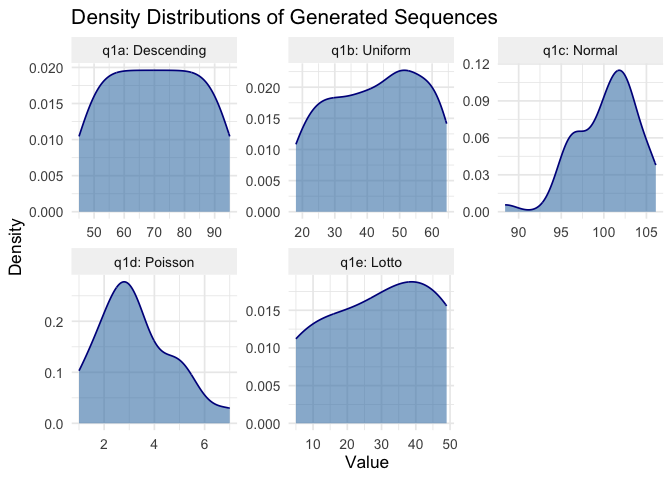
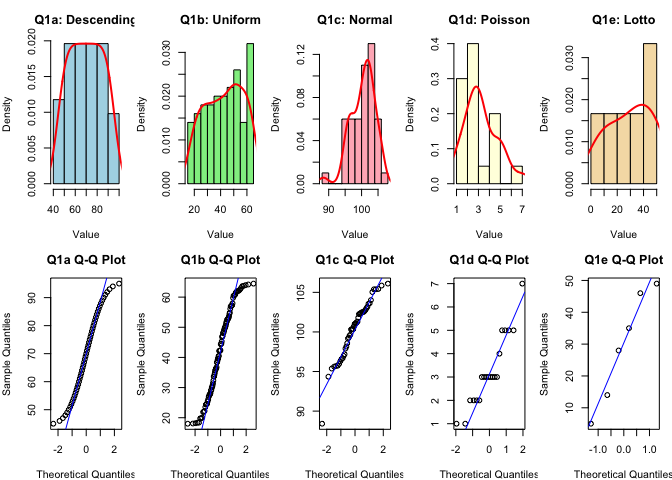
some changes on table_out

diff --git a/scripts/Rexam2026_Reuben_Njue.md b/scripts/Rexam2026_Reuben_Njue.md
@@ -63,28 +63,28 @@ q1b <- runif(n = 100, min = 18, max = 65)
 sample(18:65, 100, replace = TRUE)
 ```
 
-      [1] 23 40 20 44 34 39 53 44 43 33 64 35 27 50 29 25 54 48 50 37 27 42 21 36 29
-     [26] 39 29 30 54 27 46 21 46 49 39 44 64 45 64 38 42 18 65 62 57 54 39 19 54 27
-     [51] 24 50 43 27 19 50 56 44 33 32 57 30 23 19 53 42 34 44 57 35 48 50 65 52 58
-     [76] 34 37 29 58 65 35 52 58 63 62 50 53 62 57 18 29 50 57 39 61 21 37 61 33 22
+      [1] 63 24 49 24 55 62 45 30 63 19 24 62 26 47 52 59 27 62 28 21 50 44 34 31 20
+     [26] 65 28 54 21 23 40 18 64 22 36 59 48 46 25 54 65 61 21 55 31 28 20 47 52 29
+     [51] 57 34 52 45 63 25 26 19 56 64 47 54 32 55 30 48 65 28 45 65 46 56 55 23 19
+     [76] 52 47 29 35 51 22 28 47 24 43 24 26 44 42 26 42 43 26 44 53 38 52 65 20 46
 
 ``` r
 print(q1b)
 ```
 
-      [1] 40.77914 49.34788 36.73686 43.40712 37.05379 63.26516 35.68160 32.60948
-      [9] 45.89917 57.99030 60.41527 55.16942 54.92449 42.08514 35.15772 26.64934
-     [17] 52.03318 44.75294 54.18172 18.66806 64.33166 48.85854 35.19894 48.85688
-     [25] 36.34632 61.17966 51.94178 38.37959 42.00412 41.41670 27.40487 24.74786
-     [33] 35.65206 23.27502 60.03087 26.24046 49.46547 35.24620 39.48774 19.86285
-     [41] 57.31759 62.81311 26.19281 46.21001 50.72594 33.97881 21.22348 27.37011
-     [49] 26.10305 53.91885 34.86918 60.19458 57.95977 55.65253 51.02999 45.89360
-     [57] 26.44884 26.98388 57.02371 33.68923 30.09786 41.02267 41.96779 22.23110
-     [65] 41.18605 45.92222 41.75432 55.82522 19.90429 57.87417 28.19128 54.54162
-     [73] 61.00305 21.87404 48.76781 46.25148 18.70328 50.61264 30.63222 36.20375
-     [81] 56.53804 22.72464 27.32023 18.17421 47.31539 50.46969 59.46548 39.83201
-     [89] 38.85367 30.91061 58.67488 37.80413 55.22921 28.05004 62.24474 33.90209
-     [97] 22.78888 61.24496 22.93240 54.22047
+      [1] 23.30671 23.89200 64.80920 37.62003 48.73296 32.90680 29.96232 29.52058
+      [9] 33.36809 54.63887 44.64680 53.10153 29.22694 57.16112 22.55820 35.00772
+     [17] 23.70005 33.33406 57.65727 52.41456 58.34599 21.01534 23.47461 60.63228
+     [25] 31.95097 35.36266 61.36227 37.99301 60.32154 23.60234 54.78528 42.60077
+     [33] 56.97280 59.54645 40.77512 52.63283 23.71298 46.09769 35.23650 41.05641
+     [41] 52.25317 21.44048 20.98263 40.94888 38.91472 22.92825 28.57126 46.92057
+     [49] 38.14401 43.01851 30.87221 18.66674 18.42030 28.29608 46.23993 38.03652
+     [57] 50.83783 45.23831 58.64704 46.81940 41.22737 22.81075 25.99895 28.16290
+     [65] 58.77913 62.64152 23.94127 55.83600 31.16410 62.19746 31.55739 22.89561
+     [73] 44.79466 21.90212 62.37639 25.10836 42.62685 53.72271 44.92001 36.85702
+     [81] 21.14317 44.44325 40.70585 52.24085 32.08488 41.91787 40.40234 52.40319
+     [89] 39.59002 22.79367 42.54807 28.24809 60.86199 57.71701 46.16899 20.31364
+     [97] 40.72697 60.84466 56.52158 49.11503
 
 ## Q1c: 50 random numbers from a Normal distribution with mean=100 and SD=15
 
@@ -169,7 +169,7 @@ qqnorm(q1d, main="Q1d Q-Q Plot"); qqline(q1d, col="blue")
 qqnorm(q1e, main="Q1e Q-Q Plot"); qqline(q1e, col="blue")
 ```
 
-![](Rexam2026_Reuben_Njue_files/figure-commonmark/unnamed-chunk-8-1.png)
+![](Rexam2026_Reuben_Njue_files/figure-commonmark/unnamed-chunk-8-2.png)
 
 ``` r
 par(mfrow = c(1, 1))
@@ -203,7 +203,7 @@ gg_plot <- ggplot(df_long, aes(x = Value)) +
 print(gg_plot)
 ```
 
-![](Rexam2026_Reuben_Njue_files/figure-commonmark/unnamed-chunk-8-2.png)
+![](Rexam2026_Reuben_Njue_files/figure-commonmark/unnamed-chunk-8-3.png)
 
 ``` r
 table_output <- df_long |>
@@ -219,34 +219,25 @@ table_output <- df_long |>
       "Fail to reject H0: Normally Distributed"
     )
   ) |>
-  flextable() |>
-  set_header_labels(
+  flextable() |>                     # 1. Initialize flextable
+  theme_vanilla() |>                  # 2. Apply theme FIRST so it doesn't wipe changes
+  set_header_labels(                 # 3. Change header labels
     Sequence = "Sequence Group",
     Sample_Size = "Sample Size (n)",
     p_value = "Shapiro-Wilk (p-value)",
     Interpretation = "Normality Decision"
   ) |>
-  colformat_double(j = "p_value", digits = 4) |> 
-  autofit() |>
-  theme_vanilla() |>
-  bg(i = ~ p_value < 0.05, j = "Interpretation", bg = "#FFCCCC") |> 
-  bg(i = ~ p_value >= 0.05, j = "Interpretation", bg = "#E2F0D9")
-
-print(table_output)
+  colformat_double(j = "p_value", digits = 4) |>  # 4. Format numbers
+  bg(i = ~ p_value < 0.05, j = "Interpretation", bg = "#FFCCCC") |>   # 5. Apply colors
+  bg(i = ~ p_value >= 0.05, j = "Interpretation", bg = "#E2F0D9") |> 
+  autofit() # 6. Apply dimensions last
+  knitr::knit_print(table_output) 
 ```
 
-    a flextable object.
-    col_keys: `Sequence`, `Sample_Size`, `p_value`, `Interpretation` 
-    header has 1 row(s) 
-    body has 5 row(s) 
-    original dataset sample: 
-    'data.frame':   5 obs. of  4 variables:
-     $ Sequence      : chr  "q1a: Descending" "q1b: Uniform" "q1c: Normal" "q1d: Poisson" ...
-     $ Sample_Size   : int  51 100 50 20 6
-     $ p_value       : num  0.053885 0.000487 0.032128 0.051094 0.668618
-     $ Interpretation: chr  "Fail to reject H0: Normally Distributed" "Reject H0: Not Normally Distributed" "Reject H0: Not Normally Distributed" "Fail to reject H0: Normally Distributed" ...
+![](Rexam2026_Reuben_Njue_files/figure-commonmark/unnamed-chunk-8-1.png)
 
 ``` r
+#print(table_output)
 #AB your seed resulted in a non-normal sample from rnorm(), in such a case choose a different seed!
 ```
 